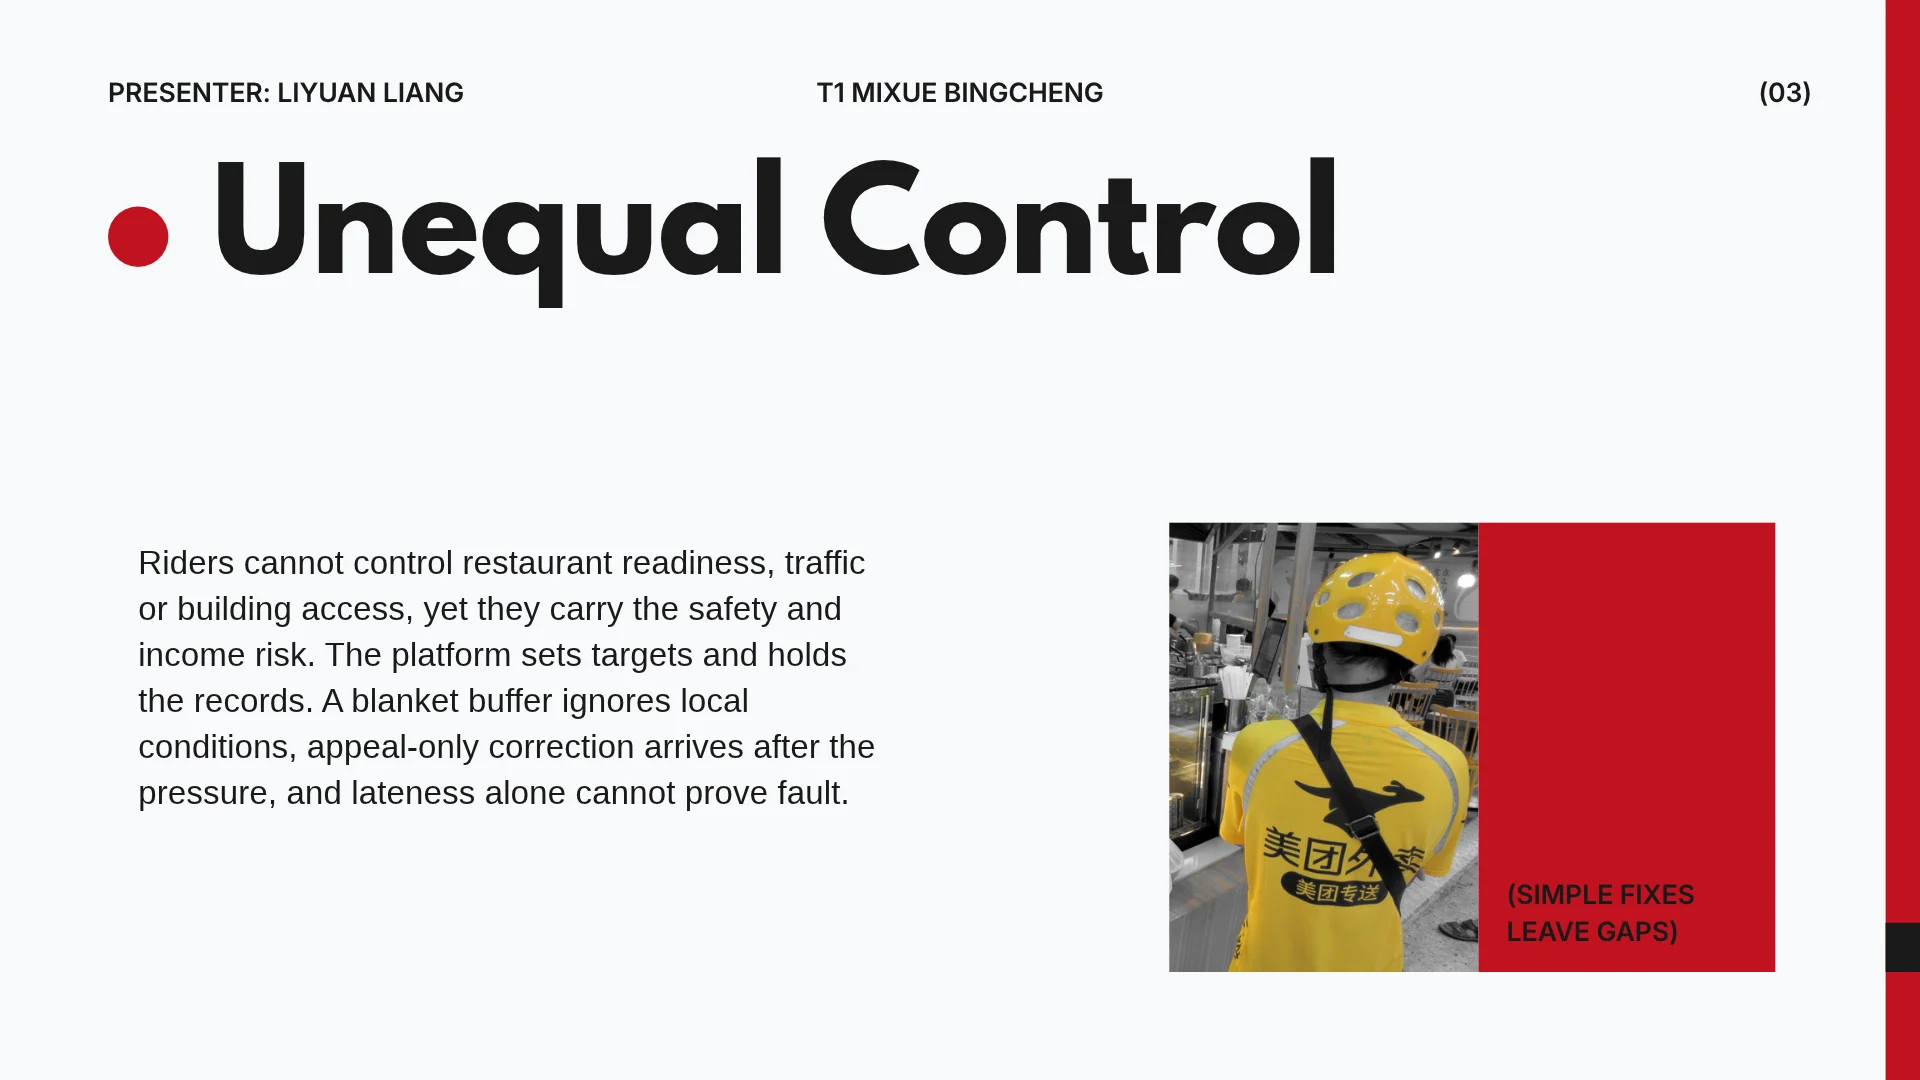
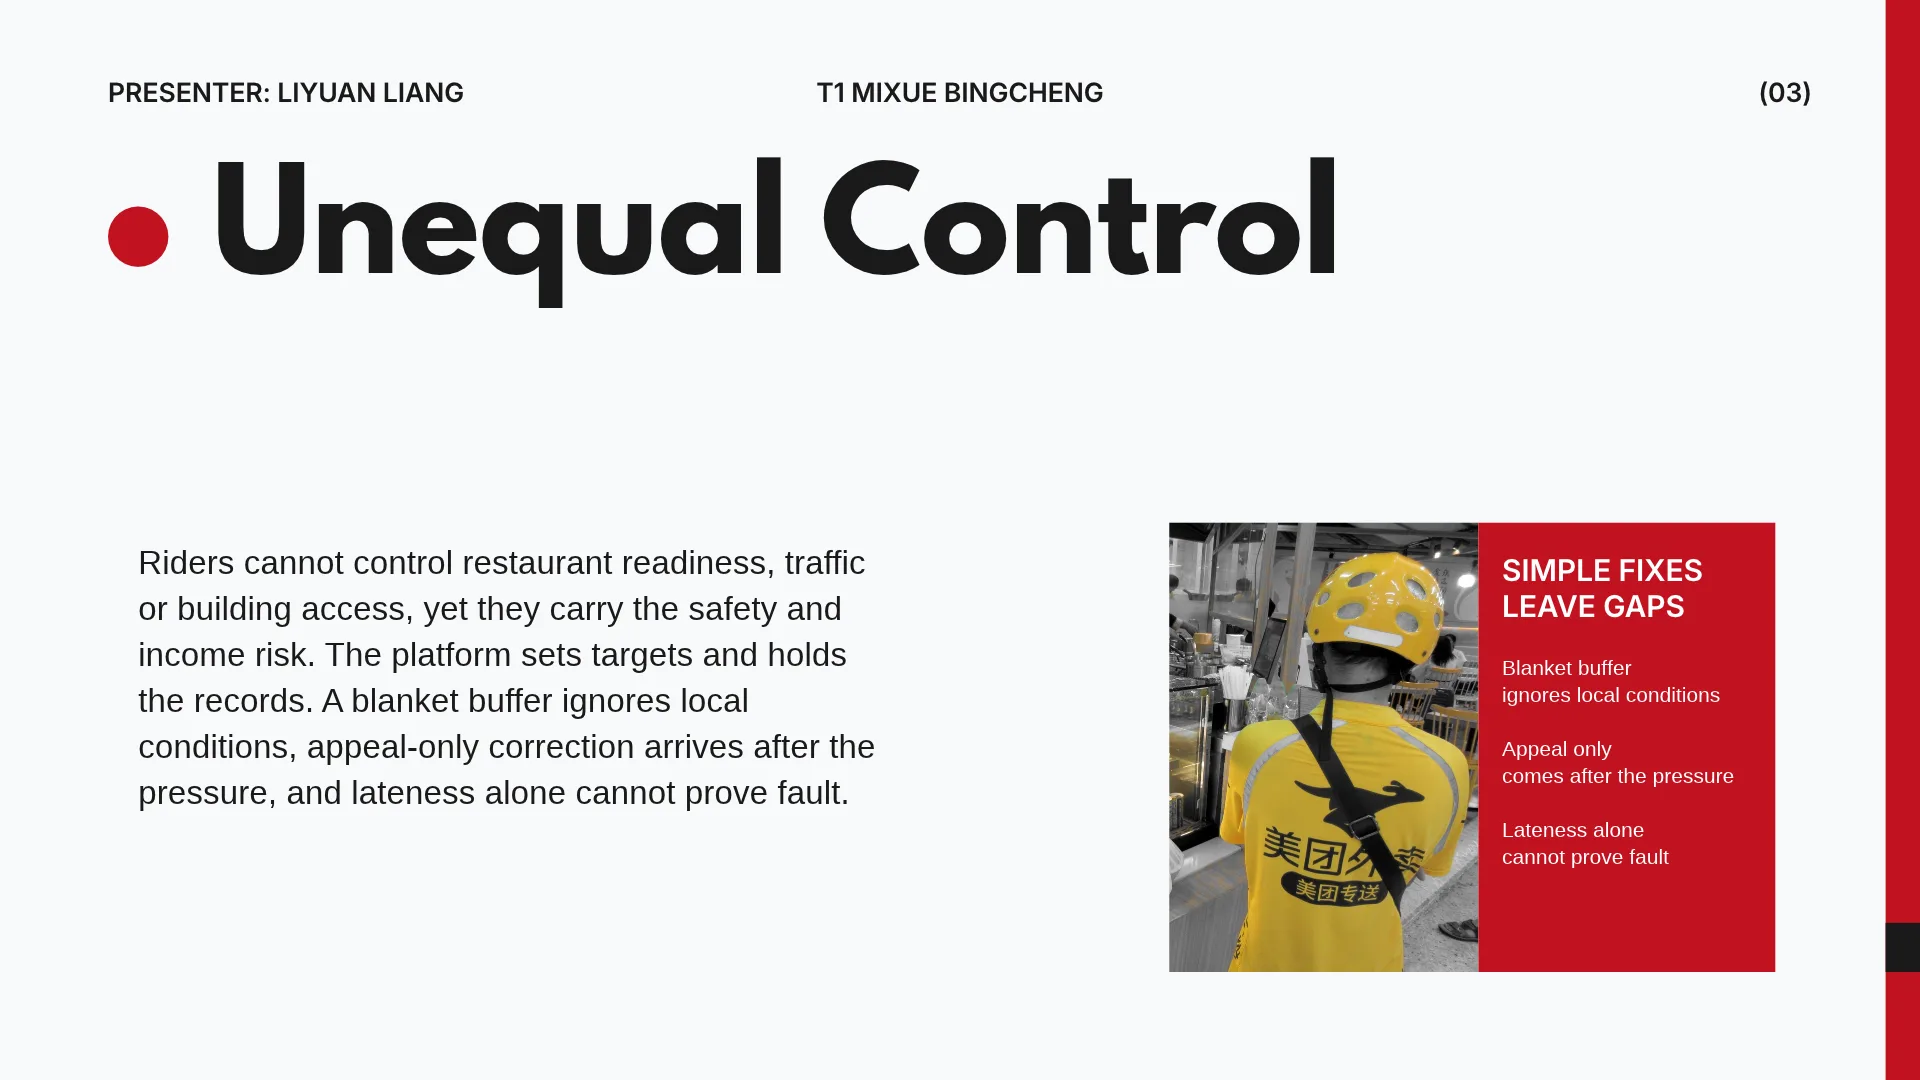
PPT pages 2-3 from Canva, readable short time bars
Page 2 now shows one complete website screenshot (the zoom-through
targets it); page 3's red box lists the three gaps in white. Bars too
narrow for their name show only the minutes, and the sum line names
every part.

Changed region(s): [[0.7812, 0.6111, 0.9062, 0.7333], [0.7812, 0.7639, 0.875, 0.8861], [0.7812, 0.5194, 0.9062, 0.5806]]

diff --git a/app/render.js b/app/render.js
@@ -186,14 +186,14 @@
       <p class="src">Values come from this run of <code>rtpl-core.js</code>. Highlighted lines decided the result.</p></div>`;
   }
 
-  const SEG_NAMES = ['Ride', 'Lights', 'Food wait', 'Building', 'Hand-over'];
+  const SEG_NAMES = ['Ride', 'Lights', 'Food wait', 'Building', 'Handover'];
   function engineDeadline(e) {
     const p = e.parts, res = e.res, scale = Math.max(40, Math.ceil(((p ? p.total : 0) + 4) / 10) * 10, e.proposed + 6);
     const pc = v => (v / scale * 100).toFixed(2);
     let x = 0;
     const segs = p ? SEG_NAMES.map((n, i) => [n, [p.travel, p.signals, p.wait, p.access, p.handover][i]]).map(([n, v], i) => {
       const left = x; x += v;
-      return `<div class="seg p${i}" data-w="${pc(v)}" style="left:${pc(left)}%;width:0"><span>${n} ${Math.round(v * 10) / 10}</span></div>`;
+      return `<div class="seg p${i}" data-w="${pc(v)}" style="left:${pc(left)}%;width:0"><span><em>${n} </em>${Math.round(v * 10) / 10}</span></div>`;
     }).join('') : `<div style="position:absolute;left:.6rem;top:50%;transform:translateY(-50%);font-size:.74rem;color:#8995A1;font-style:italic">${res && res.status === 'HOLD' ? 'Not calculated: inputs are stale' : 'Not checked yet'}</div>`;
     const gap = p && res.floor > e.proposed ? `<div class="gap-mark" style="left:${pc(e.proposed)}%;width:${pc(res.floor - e.proposed)}%">${res.floor - e.proposed} min short</div>` : '';
     let ticks = '';
@@ -206,7 +206,7 @@
       <div class="bars"><div class="lbl"><b>AI says</b>simulated</div><div class="track"><div class="seg ai" data-w="${pc(e.proposed)}" style="left:0;width:0"><span>${e.proposed} min → ${clock(e.proposed)}</span></div>${gap}</div>
       <div class="lbl"><b>Real trip</b>legal speed + stops</div><div class="track">${segs}</div>
       <div></div><div class="axis">${ticks}</div></div>
-      ${p ? `<div class="formula">Ride ${Math.round(p.travel * 10) / 10} + Lights ${p.signals} + Food wait ${p.wait} + Building ${p.access} + Hand-over ${p.handover} = <b>${p.total} min</b></div>` : ''}
+      ${p ? `<div class="formula">Ride ${Math.round(p.travel * 10) / 10} + Lights ${p.signals} + Food wait ${p.wait} + Building ${p.access} + Handover ${p.handover} = <b>${p.total} min</b></div>` : ''}
       <div class="publish">${pub}</div></div>${trace(e.trace)}</div>`;
   }
 
@@ -323,14 +323,14 @@
     const p = h.parts, scale = 40, pc = v => (v / scale * 100).toFixed(2);
     let x = 0;
     const segs = SEG_NAMES.map((n, i) => { const v = [p.travel, p.signals, p.wait, p.access, p.handover][i], left = x; x += v;
-      return `<div class="seg p${i}" data-w="${pc(v)}" style="left:${pc(left)}%;width:0"><span>${n} ${v}</span></div>`; }).join('');
+      return `<div class="seg p${i}" data-w="${pc(v)}" style="left:${pc(left)}%;width:0"><span><em>${n} </em>${v}</span></div>`; }).join('');
     let ticks = '';
     for (let m = 0; m <= scale; m += 10) ticks += `<span style="left:${pc(m)}%">${m} min</span>`;
     const real = h.stage >= 2 ? `<div class="be-real"><div class="be-grid"><div><h4>What the trip really takes</h4>
         <div class="bars"><div class="lbl"><b>AI time</b></div><div class="track"><div class="seg ai" data-w="${pc(h.ai)}" style="left:0;width:0"><span>${h.ai} min</span></div>
           <div class="gap-mark" style="left:${pc(h.ai)}%;width:${pc(p.total - h.ai)}%">${p.total - h.ai} min short</div></div>
         <div class="lbl"><b>Real trip</b></div><div class="track">${segs}</div><div></div><div class="axis">${ticks}</div></div>
-        <p class="be-sum">${p.travel} + ${p.signals} + ${p.wait} + ${p.access} + ${p.handover} = <b>${p.total} min</b></p></div>
+        <p class="be-sum">Ride ${p.travel} + Lights ${p.signals} + Food wait ${p.wait} + Building ${p.access} + Handover ${p.handover} = <b>${p.total} min</b></p></div>
         <div class="be-speed">${speedo({kmh: h.speed.need, limit: h.speed.legal, label: 'Needed to reach ' + clock(h.ai)})}
           <p>Only <b>${h.speed.rideLeft} min</b> left to ride ${h.speed.km} km</p></div></div>
         <div class="be-q">Who makes up the missing ${p.total - h.ai} minutes?</div>
@@ -465,7 +465,7 @@
   function sandboxForm(v) {
     const n = (k, label) => `<div class="f"><label for="sb-${k}">${label}</label><input type="number" min="0" step="1" id="sb-${k}" data-sb="${k}" value="${v[k]}"></div>`;
     const c = (k, label) => `<label class="ck"><input type="checkbox" data-sb="${k}" ${v[k] ? 'checked' : ''}> ${label}</label>`;
-    return `<div class="sb-form"><h4>Dispatch</h4>${n('proposed', 'AI proposed (min)')}${n('distance', 'Distance (km)')}${n('legalSpeed', 'Legal speed (km/h)')}${n('conditionSpeed', 'Speed in conditions')}${n('signals', 'Signals (min)')}${n('wait', 'Restaurant wait')}${n('access', 'Building access')}${n('handover', 'Hand-over')}${c('fresh', 'Route data is current')}
+    return `<div class="sb-form"><h4>Dispatch</h4>${n('proposed', 'AI proposed (min)')}${n('distance', 'Distance (km)')}${n('legalSpeed', 'Legal speed (km/h)')}${n('conditionSpeed', 'Speed in conditions')}${n('signals', 'Signals (min)')}${n('wait', 'Restaurant wait')}${n('access', 'Building access')}${n('handover', 'Handover')}${c('fresh', 'Route data is current')}
       <h4>Delivery</h4>${n('arrivalAfter', 'Arrives after deadline (min)')}${n('outside', 'Verified outside delay (min)')}${c('riderCause', 'Reliable rider-cause record')}${c('safeRoute', 'Verified safe legal detour')}${c('complete', 'Cause record complete')}
       <button class="btn-line" data-act="sb-reset">Back to slide values</button></div>`;
   }

diff --git a/app/main.js b/app/main.js
@@ -277,6 +277,9 @@
   function bars(grow) {
     document.querySelectorAll('.seg[data-w]').forEach(el => {
       const w = el.dataset.w + '%';
+      // A part too narrow for its name shows only its minutes; the sum line below names every part.
+      const sp = el.querySelector('span');
+      if (sp && sp.querySelector('em')) el.classList.toggle('short', sp.scrollWidth + 4 > el.parentElement.clientWidth * parseFloat(el.dataset.w) / 100);
       if (!grow || reduced()) { el.style.transition = 'none'; el.style.width = w; return; }
       requestAnimationFrame(() => requestAnimationFrame(() => { el.style.width = w; }));
     });
@@ -508,7 +511,7 @@
   // PPT page → website: the page opens up and blurs away, a LIVE card names what comes next, and the website
   // grows into place. This is the clear "switch from slides to demo" the tutor asked for.
   // Where the website screenshot sits on a PPT page (1920 × 1080 image): the zoom-through goes into it.
-  const SHOT = {2: [108, 513, 370, 457], 6: [108, 200, 347, 502]};
+  const SHOT = {2: [108, 513, 733, 458], 6: [108, 200, 347, 502]};
   function fitShot([x, y, w, h]) {
     const W = innerWidth, H = innerHeight, s = Math.min(W / 1920, H / 1080), ox = (W - 1920 * s) / 2, oy = (H - 1080 * s) / 2;
     return {left: ox + x * s, top: oy + y * s, width: w * s, height: h * s};

diff --git a/assets/app.css b/assets/app.css
@@ -283,6 +283,8 @@ button.g-ppt:hover { background: #36414C; }
 .track { position: relative; height: 2.1rem; background: #28313A; border-radius: .5rem; }
 .seg { position: absolute; top: 0; bottom: 0; display: flex; align-items: center; justify-content: center; font-size: .72rem; font-weight: 700; overflow: hidden; white-space: nowrap; transition: width .55s cubic-bezier(.3,.8,.3,1), left .55s cubic-bezier(.3,.8,.3,1); border-right: 2px solid var(--asphalt); }
 .seg span { padding: 0 .3rem; overflow: hidden; text-overflow: ellipsis; }
+.seg span em { font-style: normal; }
+.seg.short em { display: none; }
 .seg.ai { background: var(--ai); color: #fff; border-radius: .5rem; border: 0; }
 .seg.p0 { background: #FFC20E; color: var(--asphalt); border-radius: .5rem 0 0 .5rem; }
 .seg.p1 { background: #F4D166; color: var(--asphalt); }
